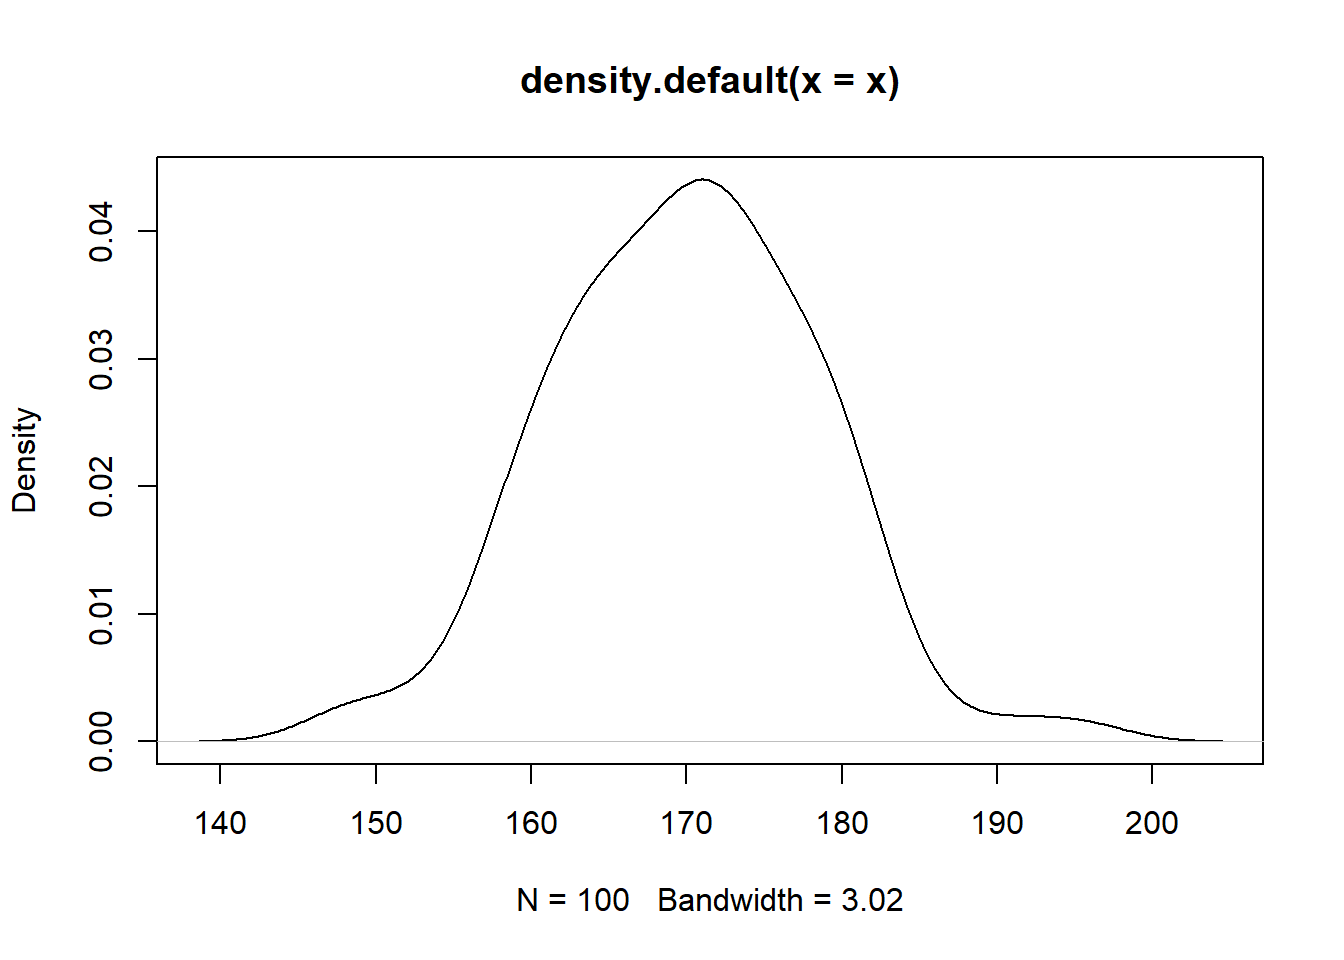
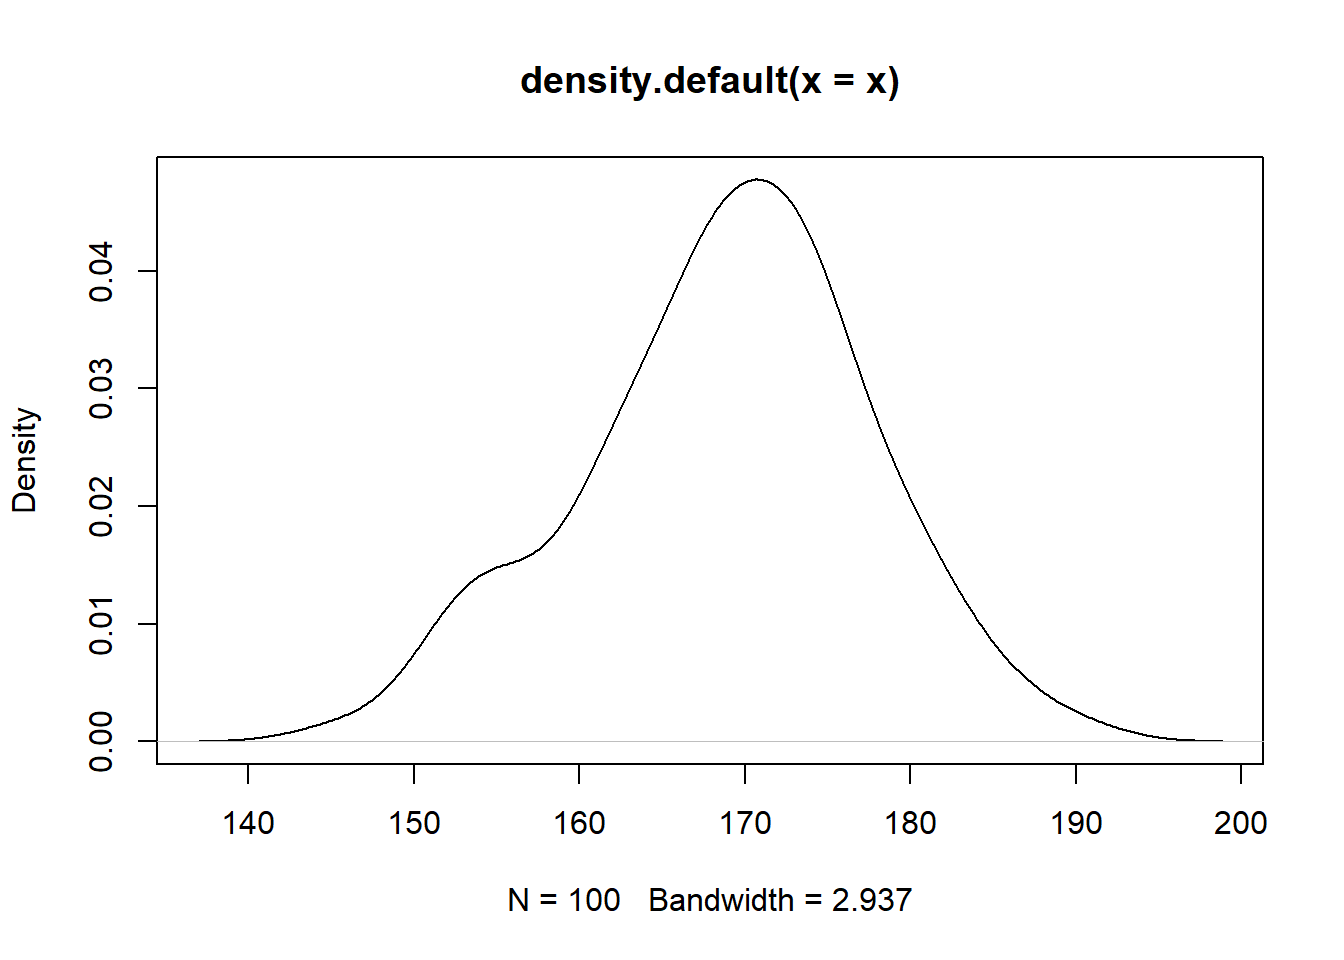
hola

diff --git a/DISCRE.html b/DISCRE.html
@@ -817,15 +817,97 @@ F(x)=\begin{cases}
 <iframe width="280" height="160" src="https://www.youtube.com/embed/ip-y-YW5Kg8" frameborder="0" allow="accelerometer; autoplay; encrypted-media; gyroscope; picture-in-picture" allowfullscreen>
 </iframe>
 </div>
+<div id="cómo-hallar-probabilidades-a-partir-de-la-función-acumulada"
+class="section level2">
+<h2>Cómo hallar probabilidades a partir de la función acumulada</h2>
+<ol style="list-style-type: decimal">
+<li></li>
+</ol>
+<p><span class="math display">\[P(a \leq x\leq b)=F(b)-F(a) \]</span>
+<span class="math display">\[P(a \leq x\leq b)=P(x\leq b)-P(x\leq
+a-1)\]</span></p>
+<ol start="2" style="list-style-type: decimal">
+<li></li>
+</ol>
+<p><span class="math display">\[P(X=a)=F(a)-F(a-1)\]</span></p>
+<p><span class="math display">\[P(X=a)=P(x\leq a)-P(x\leq
+a-1)\]</span></p>
+<ol start="3" style="list-style-type: decimal">
+<li></li>
+</ol>
+<p><span class="math display">\[𝑃(𝑥&gt;𝑎)=1−F(a)\]</span></p>
+<p><span class="math display">\[𝑃(𝑥&gt;𝑎)=1−𝑃(𝑥≤𝑎)\]</span></p>
+<ol start="4" style="list-style-type: decimal">
+<li><p><span class="math display">\[ 𝑃(𝑥≥𝑎)=1−𝑃(𝑥≤𝑎−1)\]</span> <span
+class="math display">\[𝑃(𝑥≥𝑎)=1−𝐹(𝑎−1)\]</span></p></li>
+<li><p><span class="math display">\[𝑃(𝑥&lt;𝑎)=𝑃(𝑥≤𝑎−1)\]</span> <span
+class="math display">\[𝑃(𝑥&lt;𝑎)=𝐹(𝑎−1)\]</span></p></li>
+</ol>
+<pre class="r"><code>x= rnorm(50,2,5) 
+hist(x,main=&quot;&quot;)</code></pre>
+<p><img src="DISCRE_files/figure-html/unnamed-chunk-4-1.png" width="672" /></p>
+</div>
 <div id="valor-esperado-y-varianza-de-una-función-lineal"
 class="section level2">
 <h2>Valor esperado y varianza de una función lineal</h2>
-<p>Si x es una variable aleatoria continua con pdf f(x) con a, b, c
-constantes:</p>
-<p>$$$$</p>
-<p><a
-href="https://github.com/estadisticaITM/estadisticaITM.github.io/blob/master/ITM_discretas.pptx">Clase
-de Distribuciones discretas</a></p>
+<p>Sea x es una variable aleatoria continua con pdf f(x) con a, b, c
+constantes, y la función lineal de la forma</p>
+<p><span class="math display">\[Y=a+bx\]</span> su esperanza es :</p>
+<p><span class="math display">\[E(y)=E(a+bx)\]</span> <span
+class="math display">\[E(y)=E(a)+bE(x)\]</span></p>
+<p><strong>Ejemplo</strong></p>
+<p>Un distribuidor de enseres para el hogar vende tres modelos de
+congeladores verticales de 13.5, 15.9 y 19.1 pies cúbicos de espacio de
+almacenamiento, respectivamente. Sea X la cantidad de espacio de
+almacenamiento adquirido por el siguiente cliente que compre un
+congelador. Suponga que X tiene la función masa de probabilidad</p>
+<table>
+<thead>
+<tr class="header">
+<th>x</th>
+<th>13.5</th>
+<th>15.9</th>
+<th>19.1</th>
+<th>total</th>
+</tr>
+</thead>
+<tbody>
+<tr class="odd">
+<td>f(x)</td>
+<td>0.2</td>
+<td>0.5</td>
+<td>0.3</td>
+<td>1</td>
+</tr>
+<tr class="even">
+<td>xf(x)</td>
+<td></td>
+<td></td>
+<td></td>
+<td></td>
+</tr>
+<tr class="odd">
+<td><span class="math inline">\(x^2f(x)\)</span></td>
+<td></td>
+<td></td>
+<td></td>
+<td></td>
+</tr>
+</tbody>
+</table>
+<ol style="list-style-type: lower-alpha">
+<li><p>Calcule <span class="math inline">\(E(X), 𝐸(𝑥^2)\)</span> y <span
+class="math inline">\(V(X)\)</span>.</p></li>
+<li><p>Si el precio de un congelador de X pies cúbicos de capacidad es
+25X - 8.5, ¿cuál es el precio esperado pagado por el siguiente cliente
+que compre un congelador?</p></li>
+<li><p>¿Cuál es la varianza del precio 25X - 8.5 pagado por el siguiente
+cliente?</p></li>
+<li><p>Suponga que aunque la capacidad nominal de un congelador X, la
+real es <span class="math inline">\(h(X)=X-0.01X^2\)</span>. ¿Cuál es la
+capacidad real esperada del congelador adquirido por el siguiente
+cliente?</p></li>
+</ol>
 </div>
 
 <br>

diff --git a/pruebas-no-paramétricas.html b/pruebas-no-paramétricas.html
@@ -424,11 +424,11 @@ distribuyen \quad normal\]</span> Existen diferentes pruebas para
 evaluar la normalidad, todas son de fácil implementación en R.</p>
 <div id="test-de-kolmogorov-smirnov-k-s" class="section level2">
 <h2>Test de Kolmogorov-Smirnov K-S</h2>
-<p>Se emplea para saber si dos distribuciones son distintas o si una
-distribución de probabilidad subyacente difiere de una distribución
-hipotética, por lo general la distribución normal. Es decir permite
-contrastar si un conjunto de datos muestrales proviene de una población
-normal.</p>
+<p>Se emplea para saber si una distribución de probabilidad acumulada
+difiere de una distribución hipotética, por lo general la distribución
+normal,la uniforme, la de Poisson o la exponencial.Es decir permite
+contrastar si un conjunto de datos muestrales proviene de un tipo de
+distribución.</p>
 <p>Cuando K-S se aplica para contrastar la hipótesis de normalidad de la
 población, el estadístico de prueba es la máxima diferencia entre las
 funciones de distribución de probabilidad muestral y la teórica:</p>
@@ -437,6 +437,10 @@ funciones de distribución de probabilidad muestral y la teórica:</p>
 distribución muestral y <span class="math inline">\(F_0(x)\)</span> es
 la función teórica (normal) especificada en la hipotesis nula <span
 class="math inline">\(H_0\)</span></p>
+<p><strong>Pruebas de hipótesis</strong></p>
+<p><span class="math inline">\(H_0:\)</span> Los datos analizados siguen
+una distribución M. <span class="math inline">\(H_1:\)</span> Los datos
+analizados no siguen una distribución M</p>
 <p><strong>Ejemplo en R</strong></p>
 <p>Se generan 100 observaciones de una población normal con media 170 y
 desviación estándar 8. Note que estas pueden ser muestras de estaturas
@@ -450,7 +454,7 @@ plot(density(x))</code></pre>
 ##  One-sample Kolmogorov-Smirnov test
 ## 
 ## data:  x
-## D = 0.041986, p-value = 0.9945
+## D = 0.080257, p-value = 0.54
 ## alternative hypothesis: two-sided</code></pre>
 <p>¿Según los criterios vistos en clase cuál es la desición
 apropiada?</p>

diff --git a/CONTINUA.html b/CONTINUA.html
@@ -332,14 +332,11 @@ continuas</h1>
 <li><p><a href="conn.html" target="_blank"> Distribución continuas
 </a></p></li>
 <li><p><a
-href="https://github.com/estadisticaITM/repositorioprueba/blob/master/FUNCIONES%20DE%20DISTRIBUCI%C3%93N%20DE%20PROBABILIDAD%20CONTINUAS.pdf">Distribuciones
-continuas</a></p></li>
-<li><p><a
 href="https://github.com/estadisticaITM/repositorioprueba/blob/master/taller%20de%20distribuciones%20continuas.pdf">Taller
 de distribuciones continuas</a></p></li>
 </ul>
-<div id="videos-d" class="section level3">
-<h3><strong>Videos d</strong></h3>
+<div id="videos" class="section level3">
+<h3><strong>Videos</strong></h3>
 <p><em>Función de distribución de probabilidad continua</em></p>
 <iframe width="280" height="160" src="https://www.youtube.com/embed/wmgia4DoqOk" frameborder="0" allow="accelerometer; autoplay; encrypted-media; gyroscope; picture-in-picture" allowfullscreen>
 </iframe>
